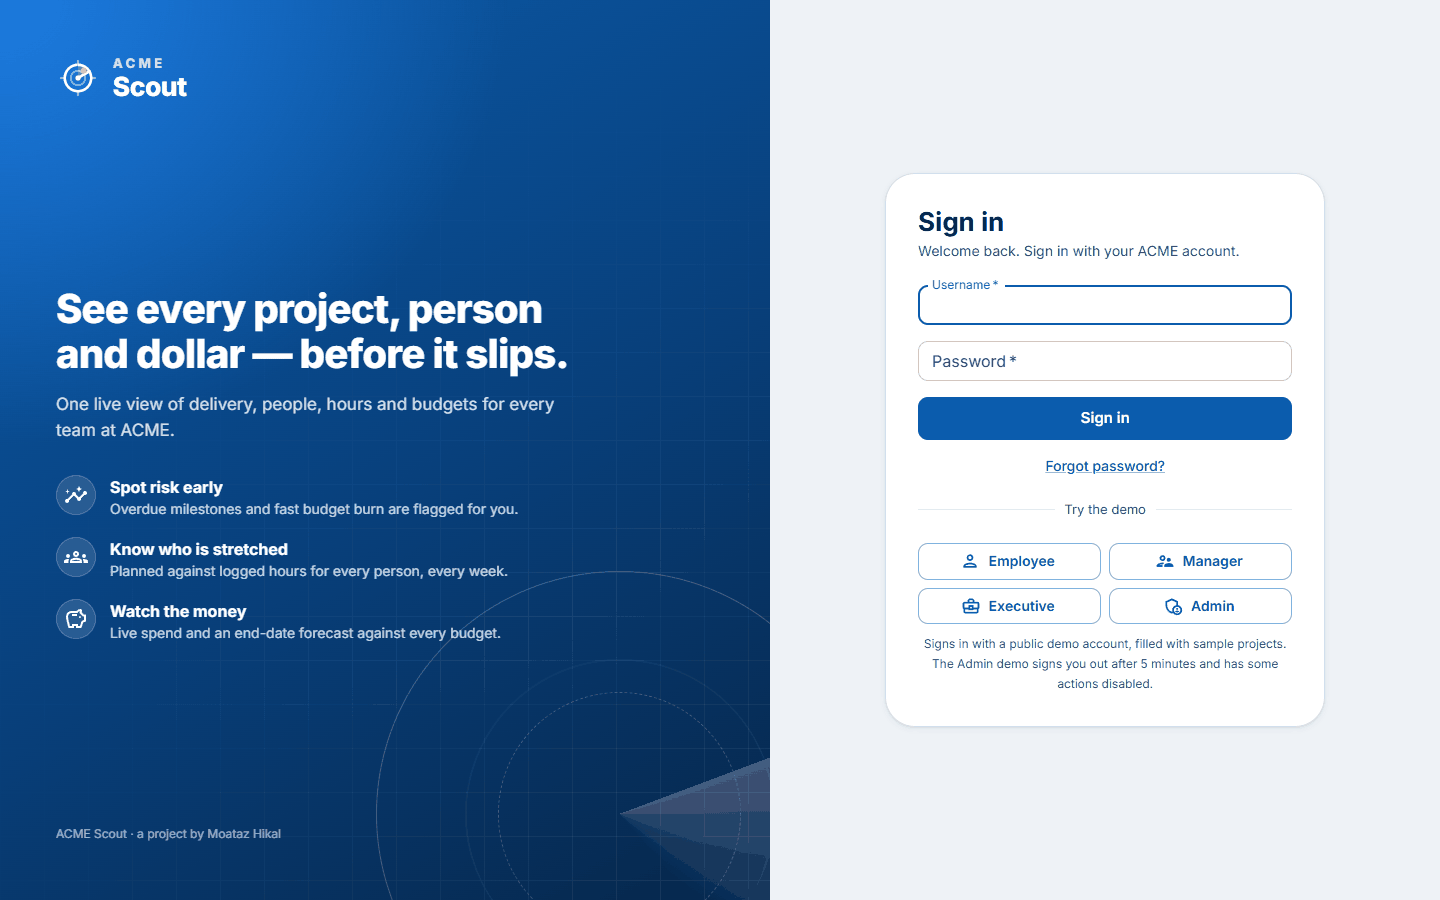
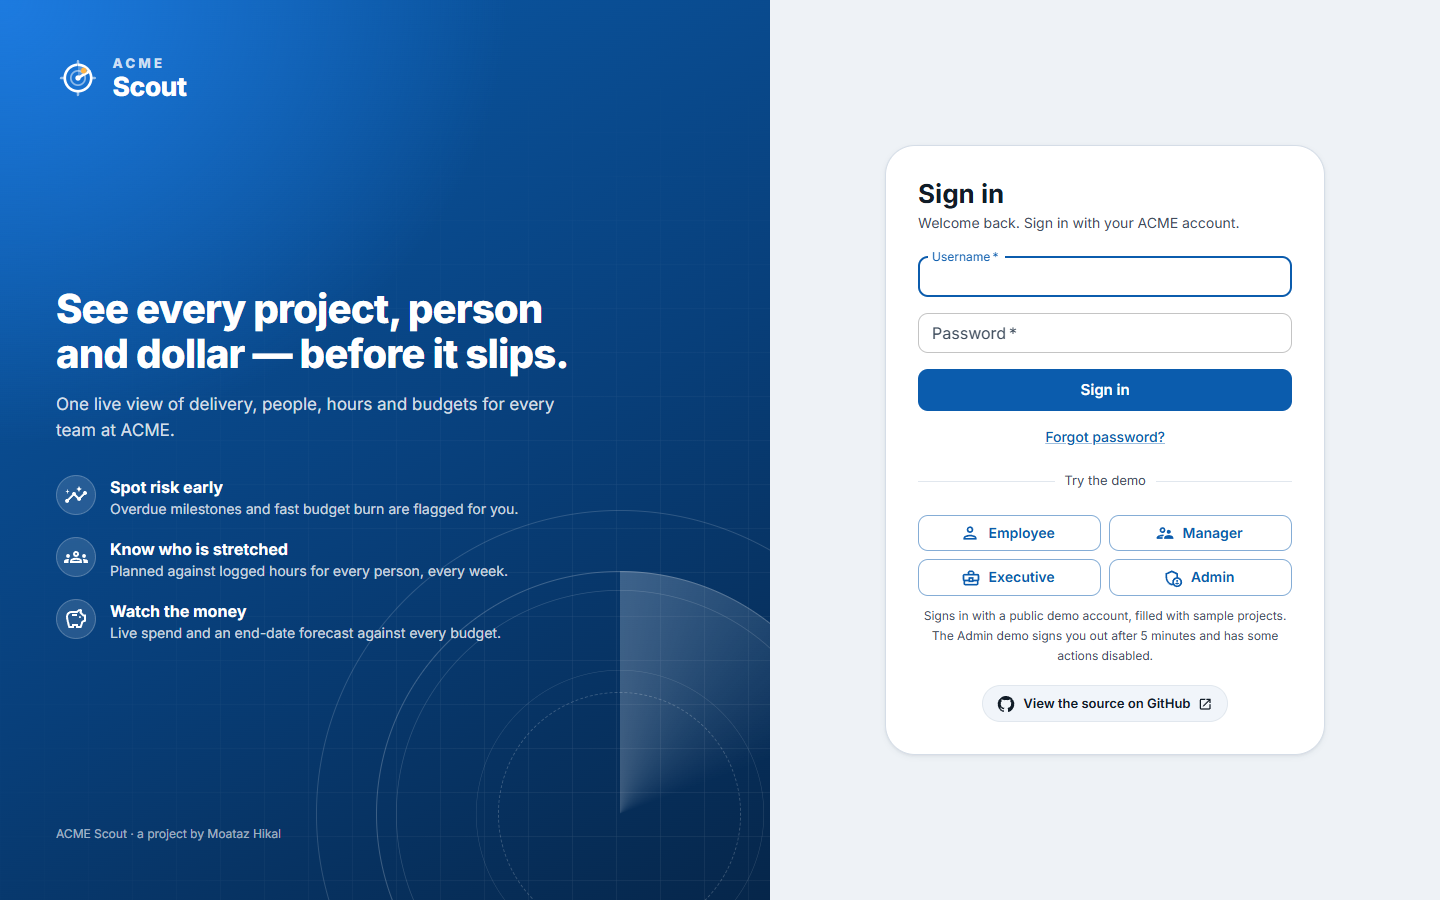
Tests and docs: end-to-end journeys updated for proof of work and the Timesheets page (6/6 pass), GitHub-link test, status-counts endpoint in API.md, stretch backlog status, current counts and sign-in screenshots

diff --git a/frontend/e2e/overtime.spec.js b/frontend/e2e/overtime.spec.js
@@ -1,8 +1,12 @@
 import { expect, test } from '@playwright/test'
 import { dollars, openProject, signIn, signOut } from './helpers.js'
 
-// The seed already gives Eli 45h this week, so each project uses a teammate on the same milestone with a clean week.
+// The seed already gives Eli 45h this week, so each project uses a teammate on the same milestone who is under 40h.
+// Their week may already hold some seeded hours (Ben's Monday, Ana's days so far); the journey overwrites each day to 9h.
 const PERSON = { desktop: { username: 'ben.okafor', name: 'Ben Okafor' }, mobile: { username: 'ana.ruiz', name: 'Ana Ruiz' } }
+
+// Stat tiles count up from 0; reduced motion makes them show the final amount straight away.
+test.use({ contextOptions: { reducedMotion: 'reduce' } })
 
 async function consumed(page) {
   await openProject(page, 'Apollo Data Migration', 'budget')
@@ -12,14 +16,20 @@ async function consumed(page) {
 }
 
 test('employee logs 9h Mon–Fri → Friday shows the overtime label → manager gets one notification → opens the breakdown → approves → budget consumed rises', async ({ page }, testInfo) => {
+  test.slow() // two sign-ins, five work-note dialogs and two budget reads
   const person = PERSON[testInfo.project.name]
 
   await signIn(page, person.username)
   await page.goto('/timesheet')
   for (const day of ['Mon', 'Tue', 'Wed', 'Thu', 'Fri']) {
     await page.getByLabel(new RegExp(`^Schema Mapping, ${day}`)).fill('9')
+    // Proof of work: new hours need a work note (or a progress update that day) before the week saves.
+    // The seed may already hold hours (with or without a note) on earlier days of this week, so it's Add or Edit.
+    await page.getByRole('button', { name: new RegExp(`^(Add|Edit) work note, Schema Mapping, ${day}`) }).click()
+    await page.getByLabel('What did you work on?').fill(`Mapped source tables to the new schema (${day}).`)
+    await page.getByRole('button', { name: 'Done' }).click()
   }
-  await expect(page.getByText(/Over 40 hours this week/)).toBeVisible()
+  await expect(page.getByRole('alert').filter({ hasText: /This week is 45h — 5h over 40h/ })).toBeVisible()
   await page.getByRole('button', { name: 'Save week' }).click()
   await expect(page.getByTestId('week-total')).toHaveText('45h / 40h')
   // Only the entry that crosses 40h (Friday: 36h → 45h) is overtime.
@@ -35,7 +45,8 @@ test('employee logs 9h Mon–Fri → Friday shows the overtime label → manager
   const alerts = page.getByRole('menuitem', { name: new RegExp(`${person.name} passed 40h`) })
   await expect(alerts).toHaveCount(1)
   await alerts.click()
-  await expect(page).toHaveURL(/\/approvals\?user=/)
+  // Approvals now live on the Timesheets page ("To review" tab), filtered to this person.
+  await expect(page).toHaveURL(/\/timesheets\?user=/)
 
   const row = page.locator('.MuiBox-root', { has: page.getByText(/Overtime requested from/) })
     .filter({ has: page.getByRole('button', { name: 'Approve' }) }).last()

diff --git a/frontend/src/features/login/login.test.jsx b/frontend/src/features/login/login.test.jsx
@@ -99,6 +99,15 @@ describe('login page brand and demo', () => {
     expect(screen.getByRole('link', { name: /forgot password/i })).toHaveAttribute('href', '/forgot-password')
   })
 
+  test('links to the source code on GitHub in a new tab', async () => {
+    server.use(noSession())
+    renderWithProviders(<App />, { route: '/login' })
+    const source = await screen.findByRole('link', { name: /view the source on github/i })
+    expect(source).toHaveAttribute('href', 'https://github.com/RootMoataz/citi-overwatch')
+    expect(source).toHaveAttribute('target', '_blank')
+    expect(source).toHaveAttribute('rel', expect.stringContaining('noopener'))
+  })
+
   test.each([
     ['Employee', 'employee.demo', users.employee],
     ['Manager', 'manager.demo', users.manager],

diff --git a/frontend/e2e/onboarding.spec.js b/frontend/e2e/onboarding.spec.js
@@ -45,5 +45,7 @@ test('admin creates user → user logs in with emailed temp password → forced 
   await change.getByRole('button', { name: 'Save password' }).click()
 
   await expect(change).toBeHidden()
-  await expect(page.getByRole('heading', { name: /status of each active project/i, level: 2 })).toBeVisible()
+  // An employee's dashboard is "My week", with the manager chosen in the wizard.
+  await expect(page.getByRole('heading', { name: 'My week', level: 1 })).toBeVisible()
+  await expect(page.getByRole('region', { name: 'Your manager' })).toContainText('Morgan Manager')
 })

diff --git a/docs/project/TESTING.md b/docs/project/TESTING.md
@@ -12,10 +12,10 @@ The tests are built for **debugging**, not only for a green tick:
 | Rules (unit) | pytest | part of 364 unit tests | A business rule is wrong: at-risk, over-40, cycles, the capacity cap, usernames, milestone status, priority, routing, claims, planning checks, messaging permissions, insights, reminders, timers and rounding, timer drafts and locks, over-limit thresholds, proof of work, red flags, the PNG sanitiser, or the password policy. No database is involved |
 | Core (unit) | pytest | part of 364 unit tests | The HTTP envelope, router guards, request IDs, hashing and tokens, or the SES fail-fast behaviour |
 | API (integration) | pytest + real PostgreSQL 17 | 723 | An endpoint is wrong: permissions (401/403/404), the executive and public demo guards, validation, archiving, an audit row, a race-safe update, or what one role can see vs another |
-| Frontend (component) | Vitest + React Testing Library + MSW | 793 (65 files) | A screen is wrong: form gating, loading/empty/error states, role-based hiding, or the payload sent to the API |
+| Frontend (component) | Vitest + React Testing Library + MSW | 794 (65 files) | A screen is wrong: form gating, loading/empty/error states, role-based hiding, or the payload sent to the API |
 | End-to-end | Playwright | 3 journeys × 2 devices | The pieces don't fit together in a real browser: real API, real database, real cookies |
 
-Counts as of 2026-10-15: **1,087 backend** (364 unit, 723 integration, 97% coverage) and **793 frontend** in 65 files, all passing; see [Current results](#current-results-2026-10-15). Older dated results further down are snapshots taken at the time.
+Counts as of 2026-10-15: **1,087 backend** (364 unit, 723 integration, 97% coverage) and **794 frontend** in 65 files, plus **6 end-to-end**, all passing; see [Current results](#current-results-2026-10-15). Older dated results further down are snapshots taken at the time.
 
 **Fail-closed guard tests.** Two integration tests walk every registered write route (66 of 114 routes): [`test_public_demo.py`](../../backend/v1/tests/integration/test_public_demo.py) fails while any write route is neither allowed nor denied for the public demo admin, and [`test_executive.py`](../../backend/v1/tests/integration/test_executive.py) fails if the set of routes that let an executive write differs from the expected list, and checks that no executive response carries `salary` or `hourly_rate`. A new endpoint can't ship without a decision for both.
 
@@ -71,13 +71,13 @@ npx playwright show-report               # traces + screenshots of any failure
 
 Each journey runs on **desktop Chrome (1280×800)** and on an **iPhone 13 profile (WebKit)**. The journeys:
 
-1. **Onboarding:** an admin creates an account in the wizard. The test reads the welcome email from `backend/v1/.outbox/`, then the new user signs in with the temporary password, is forced to change it, and lands on the dashboard.
+1. **Onboarding:** an admin creates an account in the wizard. The test reads the welcome email from `backend/v1/.outbox/`, then the new user signs in with the temporary password, is forced to change it, and lands on **My week** with the **Your manager** card.
 2. **Milestones:** a manager adds a milestone that depends on *Discovery* and assigns Eli. Eli starts it and moves it to *ready for review*; Eli can't complete it. The manager then completes it.
-3. **Overtime:** an employee logs 9 h Monday to Friday. Only Friday shows "Pending (Overtime requested from …)". The manager gets exactly one notification and opens it in Approvals. The manager then views the budget impact and approves, and the project's consumed budget goes up.
+3. **Overtime:** an employee logs 9 h Monday to Friday, adding a work note to each day (proof of work). Only Friday shows "Pending (Overtime requested from …)". The manager gets exactly one notification and opens it on the Timesheets page, filtered to that person. The manager then views the budget impact and approves, and the project's consumed budget goes up.
 
 ## Current results (2026-10-15)
 
-Windows 11, PostgreSQL 17, Node 24, Python 3.12, at commit `59d29fe` (the timer workflow: drafts, locked cells, change requests, Live now, over-limit alerts; Puppy's create-accounts conversation).
+Windows 11, PostgreSQL 17, Node 24, Python 3.12. Backend figures from commit `59d29fe` (the timer workflow); the backend suite was re-run at `323ea89` with the same result (1,087 passed, 97%). Frontend and end-to-end figures from `323ea89` plus the GitHub-link test and the updated end-to-end journeys.
 
 ```
 # backend/v1: OVERWATCH_TEST_DB=overwatch_test_docs2 python -m pytest -o addopts="" -q
@@ -94,13 +94,18 @@ TOTAL                                     6456    175    97%
 tests/unit:        364 tests
 tests/integration: 723 tests
 
-# frontend: npx vitest run --maxWorkers=4
+# frontend: npx vitest run
  Test Files  65 passed (65)
-      Tests  793 passed (793)
-   Duration  167.58s
+      Tests  794 passed (794)
+
+# frontend: npm run lint && npm run build
+no problems; built in 9.72s
+
+# frontend: npx playwright test
+  6 passed (1.6m)
 ```
 
-The end-to-end suite (3 journeys × desktop Chrome and iPhone 13 WebKit, 6 tests) wasn't re-run for this snapshot. Its last recorded run is the one below, **6 passed on 13 October 2026**, before the hour-tracking safeguards and the timer redesign. None of its three journeys uses the timer (the timer workflow is covered by `test_timer_workflow.py` and `timerWorkflow.test.jsx` above), but the overtime journey types hours without a work note, which proof of work (migration 014) now refuses, so expect that journey to need a note step before it passes again.
+The end-to-end suite (3 journeys × desktop Chrome and iPhone 13 WebKit, 6 tests) was brought up to date on 15 October: the overtime journey now adds a work note to each day (proof of work) and follows the alert to the Timesheets page, and the onboarding journey lands on My week. All 6 pass. When the machine is busy with other suites, the milestones journey can time out waiting on the API; run the end-to-end suite on its own.
 
 ## Results (2026-10-13, after the final review's fixes; Windows 11, PostgreSQL 17.11, Node 24, Python 3.12)
 
@@ -189,5 +194,5 @@ These checks were run after the final deploy, scripted in Playwright against the
 | No load or concurrency tests | The race-prone steps (login lockout counter, reset-code attempts, refresh-token claim, the one-time over-40 alert) are single atomic SQL statements or unique constraints, each with an integration test |
 | No automated accessibility audit | Queries in the component and e2e tests use roles and labels (`getByRole`, `getByLabel`), which fail if a control has no accessible name. Contrast relies on the theme's palette and hasn't been machine-audited |
 | The e2e tests sign out by clearing cookies, not through the user menu | The menu lives in the drawer on phones. The menu item itself isn't tested directly; the server's logout endpoint is covered by integration tests |
-| The end-to-end suite hasn't been re-run since 13 October | It predates proof of work and the timer workflow; the overtime journey saves hours without a work note and needs updating. The integration and component suites above cover both features |
+| The end-to-end journeys don't use the timer | The timer workflow is covered by `test_timer_workflow.py` and `timerWorkflow.test.jsx` |
 | The request log line doesn't include the user ID | The audit log records the actor with the same `request_id` |

diff --git a/docs/project/STRETCH.md b/docs/project/STRETCH.md
@@ -8,26 +8,26 @@ These items come from the repo's [full-stack guide](../full-stack.md) and the pr
 
 ## Candidates
 
-| # | Item | Source | Effort | Value | Notes |
-|---|---|---|---|---|---|
-| 1 | Token refresh (silent renewal before expiry) | Guide, auth checklist | S | High | Token expiry itself is in the minimum |
-| 2 | Progressive web app (installable, cached shell) | Guide, frontend checklist | S | Medium | `vite-plugin-pwa` |
-| 3 | Live auto-refresh of dashboard data | Email ("real-time visibility") | S | High | Polling plus refresh on tab focus. Could move to minimum |
-| 4 | Dark mode toggle | Owner, UI quality | S | Medium | Free with a well-built MUI theme |
-| 5 | Dependency graph view (visual chain) | Email Q6 | M | High | Minimum is a list view of the chain |
-| 6 | Gantt or timeline view of deliverables | Owner, UI | M | High | Strong visual for "delivery timelines" |
-| 7 | CSV export of list views | Owner | S | Medium | Stakeholder reporting |
-| 8 | Audit log (who changed what) | Object Structure V2 doc | M | Medium | Admin-only view |
-| 9 | Soft delete and restore | Object Structure V2 doc | M | Low | Real deletes are in the minimum |
-| 10 | Coverage targets: 80% backend, 80% frontend, 90% API and errors | Guide, test coverage goals | M | High | Minimum is good coverage of critical logic |
-| 11 | End-to-end tests for every critical path | Guide, test coverage goals | M | High | Minimum is one main journey |
-| 12 | Load test (Artillery) with results | Guide, performance testing | S | Medium | |
-| 13 | Full WCAG 2.1 AA accessibility audit | Guide, frontend checklist | M | Medium | Minimum is basic accessibility |
-| 14 | AI feature, e.g. "summarize project risk" | Guide, frontend checklist | M | Medium | Needs an LLM API key and cost approval |
-| 15 | Async tasks via SQS (e.g. scheduled at-risk recalculation) | Guide, backend checklist | M | Low | |
-| 16 | Monitoring dashboard (CloudWatch metrics and alarms) | Guide, backend attributes | M | Low | Minimum is structured logs |
-| 17 | Email or in-app notifications for at-risk projects | Owner | M | Medium | |
-| 18 | Kanban pull board for milestones | Owner, after the build | L | High | Designed, not built. See [Kanban pull board](#kanban-pull-board) |
+| # | Item | Source | Effort | Value | Notes | Status |
+|---|---|---|---|---|---|---|
+| 1 | Token refresh (silent renewal before expiry) | Guide, auth checklist | S | High | Token expiry itself is in the minimum | Done (`POST /auth/refresh`) |
+| 2 | Progressive web app (installable, cached shell) | Guide, frontend checklist | S | Medium | `vite-plugin-pwa` | Not built |
+| 3 | Live auto-refresh of dashboard data | Email ("real-time visibility") | S | High | Polling plus refresh on tab focus. Could move to minimum | Done (polling and refresh on tab focus) |
+| 4 | Dark mode toggle | Owner, UI quality | S | Medium | Free with a well-built MUI theme | Done |
+| 5 | Dependency graph view (visual chain) | Email Q6 | M | High | Minimum is a list view of the chain | Partly: the timeline shows "after …" chains and automatic blocked status; no graph view |
+| 6 | Gantt or timeline view of deliverables | Owner, UI | M | High | Strong visual for "delivery timelines" | Done (each project's timeline) |
+| 7 | CSV export of list views | Owner | S | Medium | Stakeholder reporting | Done (CSV export, plus print/PDF) |
+| 8 | Audit log (who changed what) | Object Structure V2 doc | M | Medium | Admin-only view | Done (audit log and per-record timeline) |
+| 9 | Soft delete and restore | Object Structure V2 doc | M | Low | Real deletes are in the minimum | Done (archive and restore; nothing is hard-deleted) |
+| 10 | Coverage targets: 80% backend, 80% frontend, 90% API and errors | Guide, test coverage goals | M | High | Minimum is good coverage of critical logic | Backend done (97%); see [TESTING.md](./TESTING.md) |
+| 11 | End-to-end tests for every critical path | Guide, test coverage goals | M | High | Minimum is one main journey | Partly: 3 journeys on desktop and mobile |
+| 12 | Load test (Artillery) with results | Guide, performance testing | S | Medium | | Not done |
+| 13 | Full WCAG 2.1 AA accessibility audit | Guide, frontend checklist | M | Medium | Minimum is basic accessibility | Not done (tests query by role and label; no audit) |
+| 14 | AI feature, e.g. "summarize project risk" | Guide, frontend checklist | M | Medium | Needs an LLM API key and cost approval | Not built (Puppy is rule-based, no AI service) |
+| 15 | Async tasks via SQS (e.g. scheduled at-risk recalculation) | Guide, backend checklist | M | Low | | Not built |
+| 16 | Monitoring dashboard (CloudWatch metrics and alarms) | Guide, backend attributes | M | Low | Minimum is structured logs | Not built |
+| 17 | Email or in-app notifications for at-risk projects | Owner | M | Medium | | In-app done (bell alerts); email waits on SES access |
+| 18 | Kanban pull board for milestones | Owner, after the build | L | High | See [Kanban pull board](#kanban-pull-board) | Partly: pull mode, claiming and the planning board; see below |
 
 ## Decision rule
 
@@ -35,7 +35,9 @@ When the minimum is complete, pick the remaining items with the best value for t
 
 ## Kanban pull board
 
-Today, work is **pushed**: a manager assigns people to milestones, and the 40-hour planned cap stops anyone being overloaded. Dependencies already form a graph, so a milestone is blocked only by its own predecessors and independent work can run in parallel. What's missing is a way for people to **pull** that work themselves. This design adds it. It isn't built.
+Today, work is **pushed**: a manager assigns people to milestones, and the 40-hour planned cap stops anyone being overloaded. Dependencies already form a graph, so a milestone is blocked only by its own predecessors and independent work can run in parallel. This design lets people **pull** that work themselves.
+
+**Status (15 Oct):** partly built. Pull mode per project (`work_mode`), claiming (`POST /milestones/{id}/claim`, [LOGIC_WALKTHROUGH §11](LOGIC_WALKTHROUGH.md#11-pull-mode-claiming-a-milestone)) and the planning board ([§25](LOGIC_WALKTHROUGH.md#25-the-planning-board-and-finalizing-a-plan)) are live. Not built: `/unclaim`, the WIP limit, `max_claimers`, auto-assign and the stale-card alert.
 
 ### Cards and columns
 

diff --git a/README.md b/README.md
@@ -12,7 +12,7 @@ Scout is a project tracking platform for ACME Inc. It gives admins, project mana
 |---|---|
 | **Live site** | https://d3ucnz03j0sngl.cloudfront.net |
 | **Stack** | React 19 · Material UI 9 · React Responsive · Python 3 on AWS Lambda · Aurora PostgreSQL 17 |
-| **Tests** | 1,087 backend (364 unit · 723 integration, 97% coverage) · 793 frontend component (65 files) · 6 end-to-end (3 journeys × desktop + mobile, last run 13 Oct) — see [TESTING.md](docs/project/TESTING.md) |
+| **Tests** | 1,087 backend (364 unit · 723 integration, 97% coverage) · 794 frontend component (65 files) · 6 end-to-end (3 journeys × desktop + mobile), all passing on 15 Oct — see [TESTING.md](docs/project/TESTING.md) |
 | **Source** | https://github.com/RootMoataz/citi-overwatch (the repository keeps its original name for now) |
 
 ## What it does
@@ -48,8 +48,8 @@ Screenshots from the live site with the demo data (light mode unless noted).
 
 | | |
 |---|---|
-| ![Sign-in page: the ACME Scout brand panel on the left, the sign-in form and four one-click demo buttons on the right](docs/images/login.png) | ![The same sign-in page in dark mode](docs/images/login-dark.png) |
-| Sign-in with one-click demo logins | Dark mode follows the system or the account menu |
+| ![Sign-in page: the ACME Scout brand panel on the left, the sign-in form, four one-click demo buttons and a View the source on GitHub link on the right](docs/images/login.png) | ![The same sign-in page in dark mode](docs/images/login-dark.png) |
+| Sign-in with one-click demo logins and a link to this repository | Dark mode follows the system or the account menu |
 
 ### Employee
 
@@ -167,7 +167,7 @@ Connection settings come from `POSTGRES_HOST`, `POSTGRES_PORT`, `POSTGRES_USER`,
 
 ```bash
 cd backend/v1 && python -m pytest --cov=app              # 1,087 unit + integration tests against local Postgres
-cd frontend && npm test                                  # 793 component tests (Vitest + Testing Library)
+cd frontend && npm test                                  # 794 component tests (Vitest + Testing Library)
 cd frontend && npx playwright install chromium webkit    # once
 cd frontend && npm run e2e                               # 3 journeys × desktop Chrome and iPhone 13 (WebKit)
 cd frontend && npm run lint

diff --git a/docs/project/API.md b/docs/project/API.md
@@ -229,6 +229,7 @@ Every change is in the audit log (`entity_type` `department`).
 | Method | Path | Notes |
 |---|---|---|
 | GET | `/projects?q=&status=&manager=&department=&at_risk=true&archived=true&page=&page_size=` | Only the projects you can see (admins and executives: all). `archived` is for admins and executives; `department` is a department ID. Each item has `team`: its active members as `[{id, name}]`, by last name (for the list's avatars), and `delegate` (below) |
+| GET | `/projects/status-counts` | Admin and executive (`403` otherwise). How many projects are in each status, for the dashboards: `{planned, active, on_hold, completed, archived, total}`. An archived project counts as `archived` whatever its status |
 | GET | `/project-templates` | Anyone signed in. `{items: [{department, milestones: [{name, description, weight, estimated_hours, difficulty, priority, after, skills, required_skills, completion_criteria}]}]}` (`skills` are job titles the demo curation matches; `required_skills` are catalogue skills for auto-routing; `completion_criteria` one line each): the department plans a new project can start from ([presets](LOGIC_WALKTHROUGH.md#22-department-presets-and-project-templates)). `estimated_hours` is for a 26-week project; a template scales it to the dates |
 | POST | `/projects` | Admin. `{name, description?, start_date, predicted_end_date, budget, manager_id, status?, department_id?, work_mode?, template?}` → `201`. `work_mode` is `push` (default) or `pull`. `template: true` also creates the department's plan inside the project's dates in the same transaction (not started, nobody assigned, with dependencies, difficulty, priority, estimates, the step's description as the objective, its completion criteria and its required skills; audited as `apply_template`), and the project starts `planned` whatever `status` says, so the plan goes through the Plan tab and is finalized there. `400 VALIDATION_ERROR` with `{template: "no_department"}`, `"no_preset"` (that department has no plan), `"too_short"` (fewer days than plan stages) or `"invalid"` (not a boolean) |
 | GET | `/projects/{id}` | `404` if you can't see it |

diff --git a/docs/project/DEMO_SCRIPT.md b/docs/project/DEMO_SCRIPT.md
@@ -264,8 +264,8 @@ Say:
 > salaries are stripped from every executive response; photos are rebuilt from checked pixels by a pure-Python PNG
 > sanitiser, so nothing uploaded is served as-is.
 >
-> Tests: 1,087 backend tests at 97% coverage, 793 frontend component tests, and 6 end-to-end runs on desktop and
-> iPhone (last recorded on 13 October, before the timer redesign).
+> Tests: 1,087 backend tests at 97% coverage, 794 frontend component tests, and 6 end-to-end runs on desktop and
+> iPhone, all passing on 15 October.
 >
 > Next: server-side email needs an SES endpoint, which is waiting on the instructors, and the GitHub repository gets
 > renamed to ACME Scout after this presentation."
@@ -305,8 +305,8 @@ One open kickback per milestone and one running timer per person are enforced by
 submissions keep a frozen copy of each payroll CSV.
 
 **Testing strategy?** Test-first. Business rules are pure functions with exhaustive edge cases (364 unit tests).
-723 integration tests run against a real PostgreSQL 17, because mocks hide SQL bugs. 793 component tests use Vitest
+723 integration tests run against a real PostgreSQL 17, because mocks hide SQL bugs. 794 component tests use Vitest
 and MSW, where an unhandled request fails the test. 6 Playwright runs cover 3 journeys on desktop Chrome and iPhone
-13 (last recorded on 13 October, before the timer redesign). Two fail-closed tests walk every write route for the executive and demo-admin guards.
+13, all passing on 15 October. Two fail-closed tests walk every write route for the executive and demo-admin guards.
 
 **Don't know?** "Good question. Let me show you where that lives." Open `LOGIC_WALKTHROUGH.md` or `DECISIONS.md`.

diff --git a/docs/project/USER_STORIES.md b/docs/project/USER_STORIES.md
@@ -437,7 +437,7 @@ Everything below was built after the first deploy and is live. **Status** is **D
 
 #### N1. Try the demo in one click (U) — Done
 **As** a grader, **I want** one button per role on the sign-in page **so that** I can explore without typing credentials.
-- **Success:** Employee, Manager, Executive and Admin buttons sign in to the published demo accounts and land on that role's home.
+- **Success:** Employee, Manager, Executive and Admin buttons sign in to the published demo accounts and land on that role's home. A **View the source on GitHub** link under them opens the repository in a new tab.
 - **Failure:** "Too many demo sign-ins from your network" (`429`) after 20 Admin-demo sign-ins a minute from one address; the demo accounts never lock.
 
 #### N2. Search and jump anywhere (U) — Done
